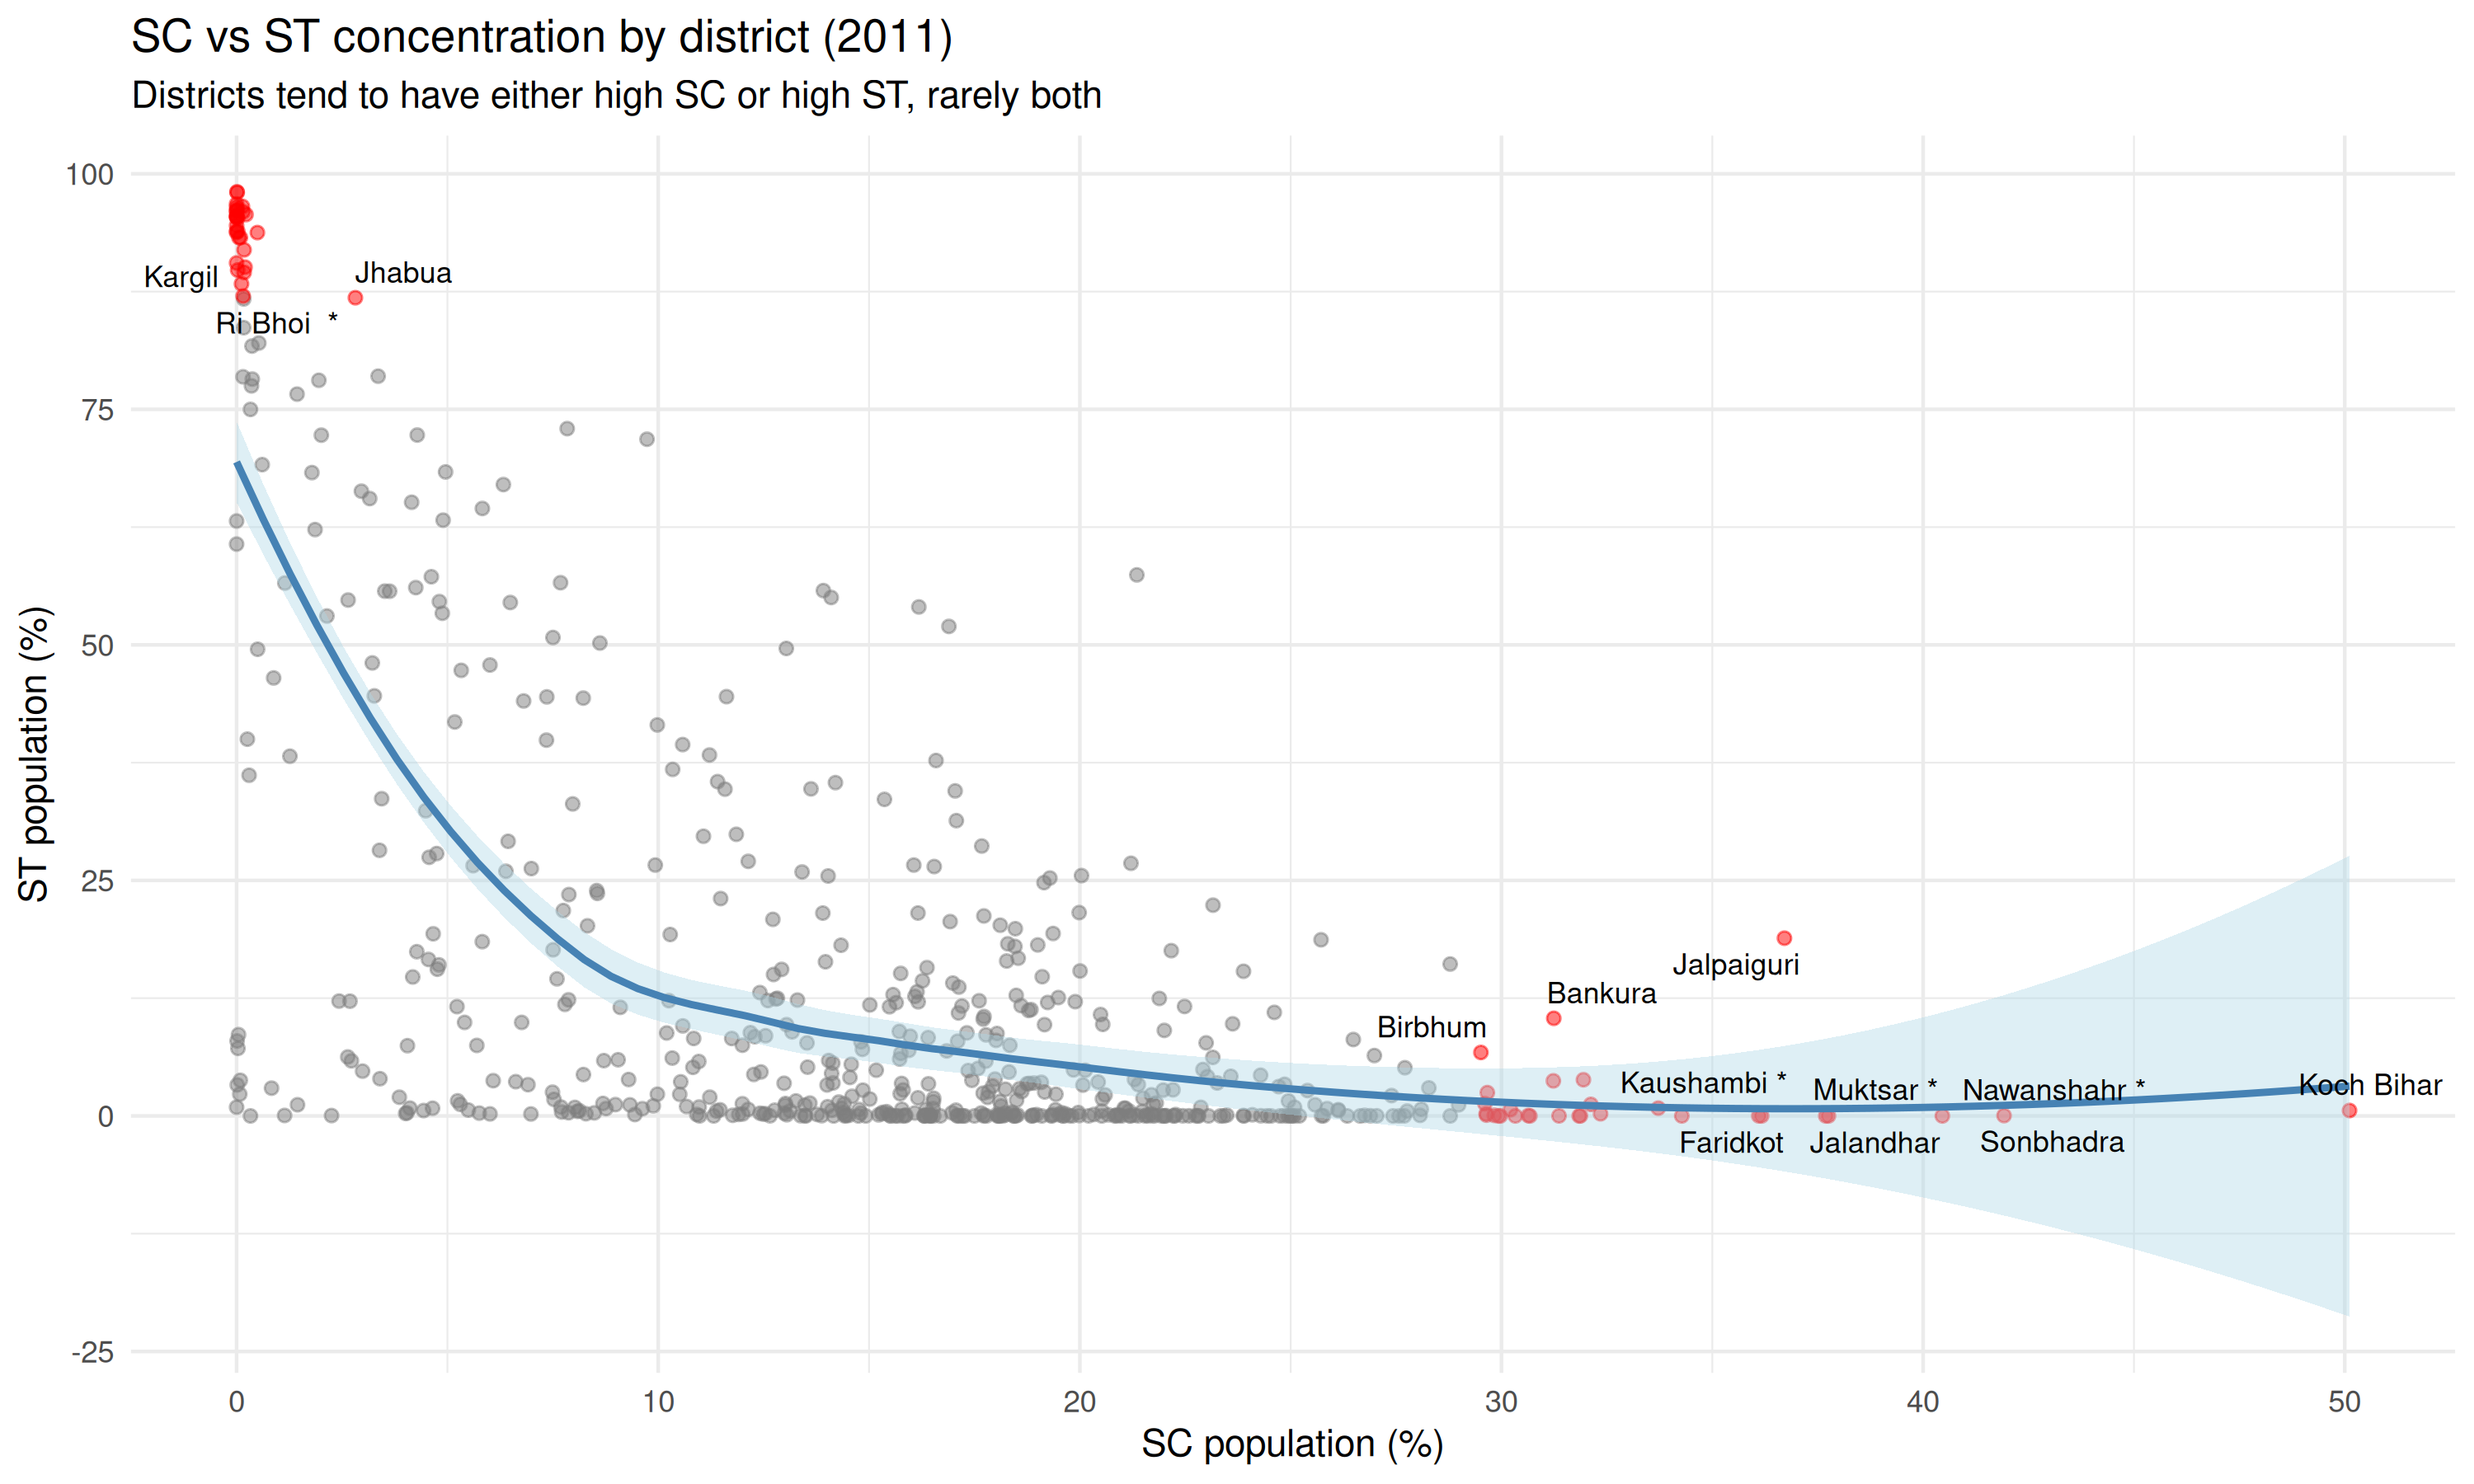
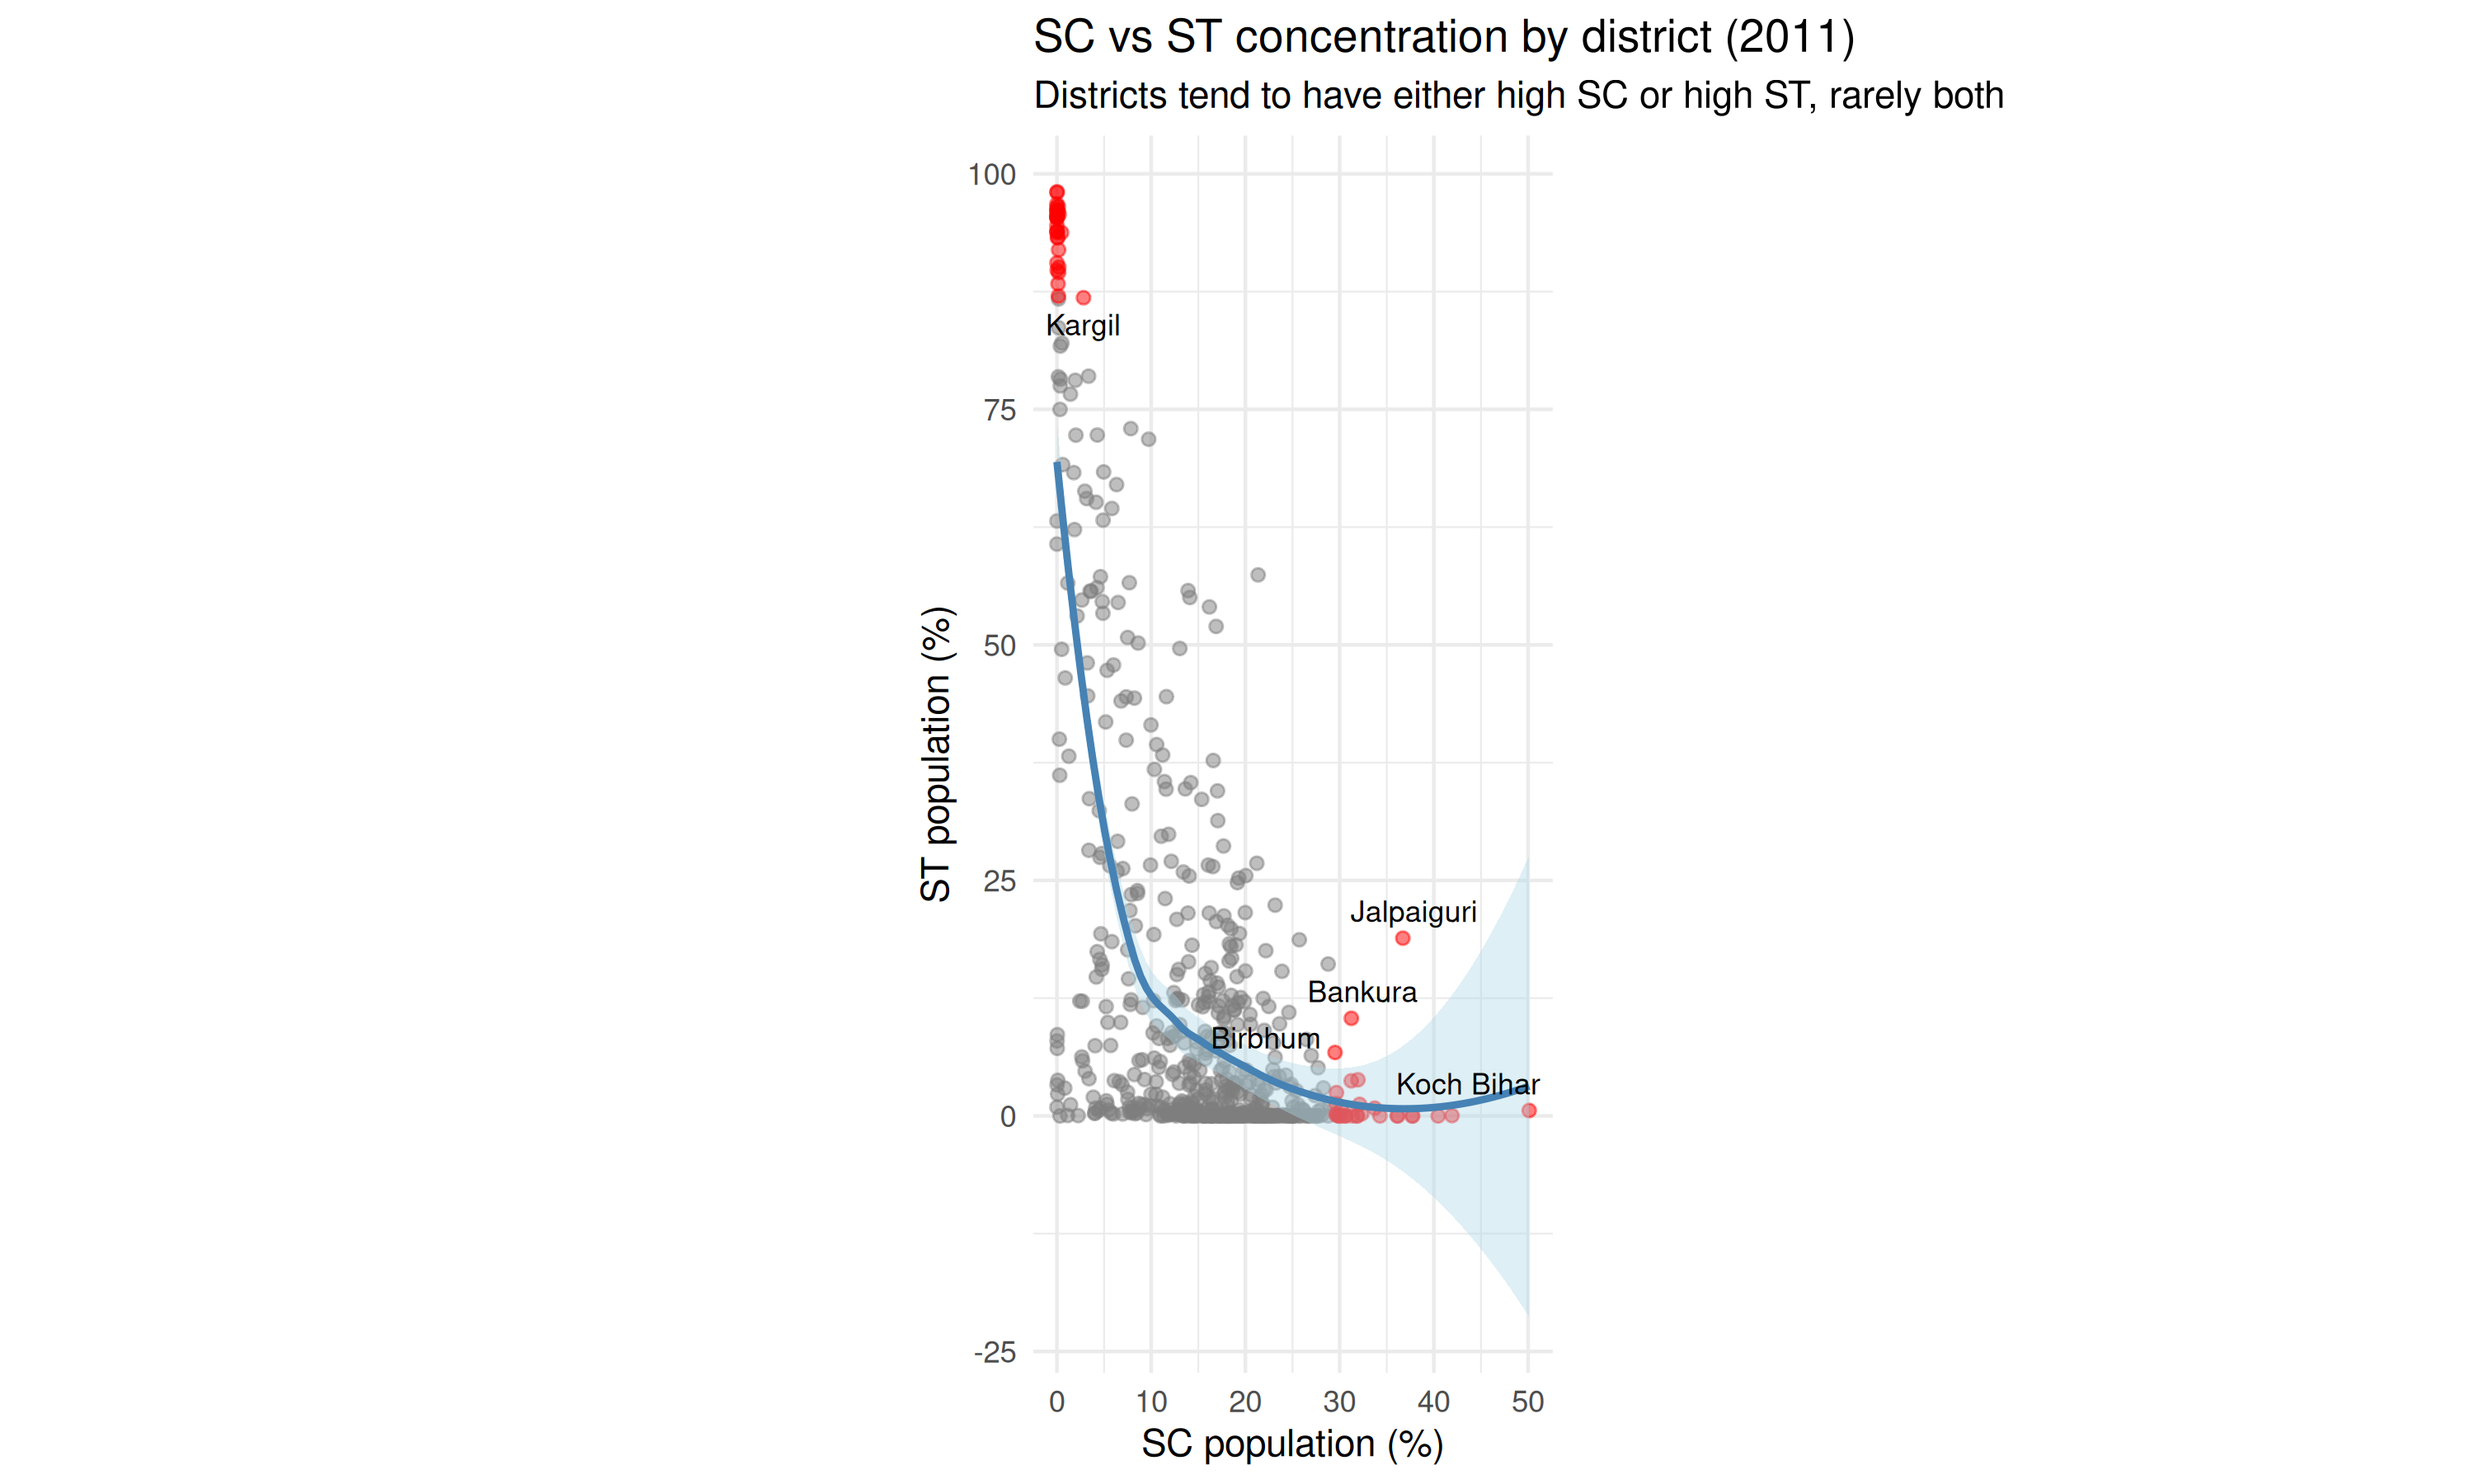
Deploying to gh-pages from @ saketlab/indiacensus@4550c0663648fe355c94ed091729c4bfa2908372 🚀

diff --git a/articles/sc-st-population.html b/articles/sc-st-population.html
@@ -276,6 +276,7 @@ historical settlement patterns and regional diversity.</p>
 <span>    na.rm <span class="op">=</span> <span class="cn">TRUE</span></span>
 <span>  <span class="op">)</span> <span class="op">+</span></span>
 <span>  <span class="fu"><a href="https://ggplot2.tidyverse.org/reference/scale_manual.html" class="external-link">scale_color_manual</a></span><span class="op">(</span>values <span class="op">=</span> <span class="fu"><a href="https://rdrr.io/r/base/c.html" class="external-link">c</a></span><span class="op">(</span><span class="st">"grey50"</span>, <span class="st">"red"</span><span class="op">)</span>, guide <span class="op">=</span> <span class="st">"none"</span><span class="op">)</span> <span class="op">+</span></span>
+<span>  <span class="fu"><a href="https://ggplot2.tidyverse.org/reference/coord_fixed.html" class="external-link">coord_fixed</a></span><span class="op">(</span>ratio <span class="op">=</span> <span class="fl">1</span><span class="op">)</span> <span class="op">+</span></span>
 <span>  <span class="fu"><a href="https://ggplot2.tidyverse.org/reference/labs.html" class="external-link">labs</a></span><span class="op">(</span></span>
 <span>    x <span class="op">=</span> <span class="st">"SC population (%)"</span>,</span>
 <span>    y <span class="op">=</span> <span class="st">"ST population (%)"</span>,</span>

diff --git a/articles/sc-st-population.md b/articles/sc-st-population.md
@@ -166,6 +166,7 @@ ggplot(scatter_data, aes(sc_pct, st_pct)) +
     na.rm = TRUE
   ) +
   scale_color_manual(values = c("grey50", "red"), guide = "none") +
+  coord_fixed(ratio = 1) +
   labs(
     x = "SC population (%)",
     y = "ST population (%)",
